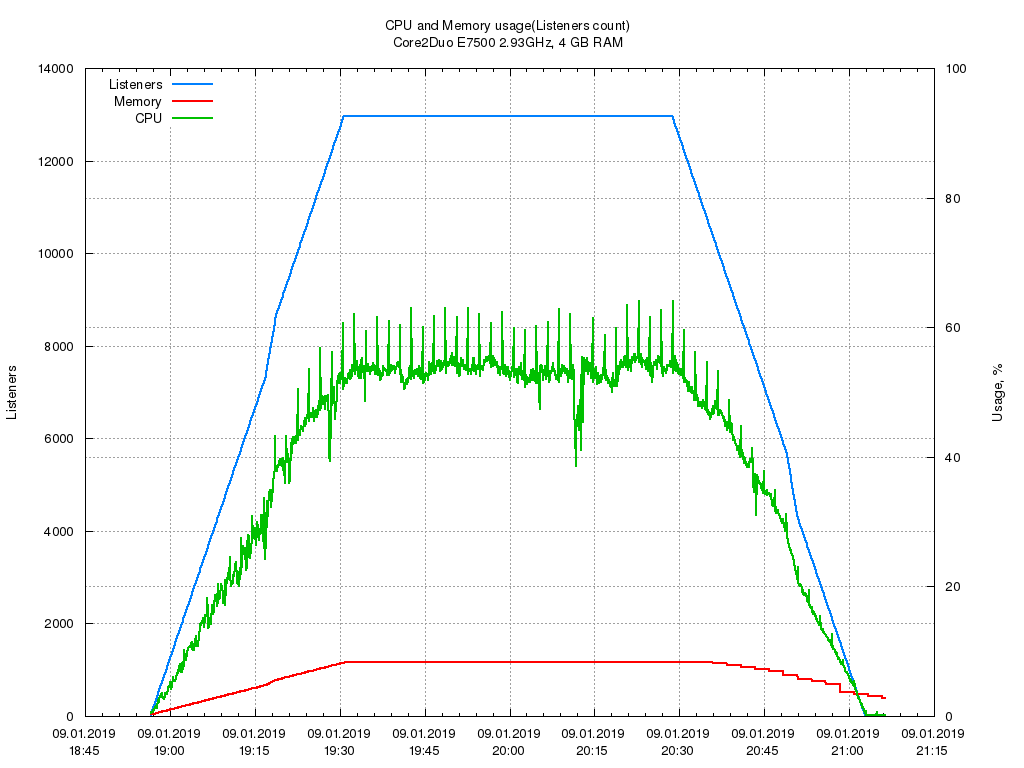
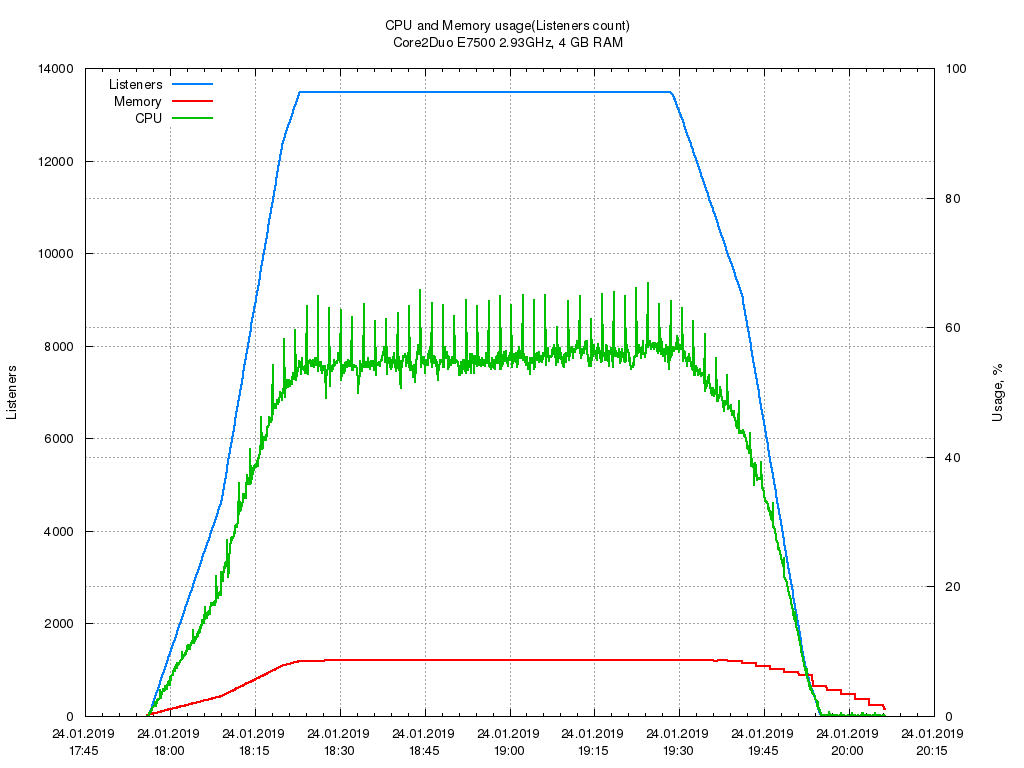
benchParallel

diff --git a/main_test.go b/main_test.go
@@ -109,7 +109,6 @@ func BenchmarkGeneral(b *testing.B) {
 
 	cl := &iceclient.PenguinClient{}
 	cl.Init(hostAddr, mountName, "")
-
 	b.ResetTimer()
 
 	for i := 0; i < b.N; i++ {
@@ -118,11 +117,37 @@ func BenchmarkGeneral(b *testing.B) {
 			log.Println(err)
 		}
 	}
+}
 
+func BenchmarkParallel(b *testing.B) {
+	log.Println("Start creating listeners...")
+
+	wg := &sync.WaitGroup{}
+
+	for i := 0; i < 500/incStep; i++ {
+		wg.Add(incStep)
+		for k := 0; k < incStep; k++ {
+			go func(wg *sync.WaitGroup, i int) {
+				defer wg.Done()
+				time.Sleep(time.Millisecond * 200)
+				cl := &iceclient.PenguinClient{}
+				cl.Init(hostAddr, mountName, "")
+				err := cl.Listen(120)
+				if err != nil {
+					log.Println(err)
+				}
+			}(wg, i)
+		}
+		time.Sleep(time.Second * waitStep)
+
+	}
+	log.Println("Waiting for listeners to finito...")
+	wg.Wait()
 }
 
 /*
-	go test -bench General -benchmem -benchtime 120s -cpuprofile=cpu.out -memprofile=mem.out main_test.go -run notests
+	go test -bench General  -benchmem -benchtime 120s -cpuprofile=cpu.out -memprofile=mem.out main_test.go -run notests
+	go test -bench Parallel -benchmem -cpuprofile=cpu.out -memprofile=mem.out main_test.go -run notests
 
 	go tool pprof --pdf  cpu.out > cpu.pdf
 	go tool pprof --pdf -alloc_space main.test mem.out > memSpace.pdf
@@ -132,7 +157,7 @@ func BenchmarkGeneral(b *testing.B) {
 	go tool pprof main.test cpu.out
 	go tool pprof main.test mem.out
 
-	go test -v -race MonitoringListenersCount -timeout 300m main_test.go
+	go test -v -run MonitoringListenersCount -timeout 300m main_test.go
 	go test -bench Slice -benchmem main_test.go -run notests
 
 	mp3check -e -a -S -T -E -v dump/*.mp3

diff --git a/src/fastStat/fastStat.go b/src/fastStat/fastStat.go
@@ -1,3 +1,5 @@
+// Package fastStat - read current process stat from /proc/[pid]/stat
+// used for CPU and memory usage monitoring
 package fastStat
 
 /* #include <unistd.h> */
@@ -79,7 +81,8 @@ func parseInt(val string) int {
 	return intVal
 }
 
-func (p *ProcStatsReader) Read() (*ProcStats, error) {
+// read - reads a /proc/[pid]/stat file and returns statistics
+func (p *ProcStatsReader) read() (*ProcStats, error) {
 	if p.procFile == nil {
 		return nil, errors.New("ProcStatsReader have to be initialized")
 	}
@@ -126,7 +129,7 @@ func (p *ProcStatsReader) GetCPUAndMem() (float64, int, error) {
 
 	if runtime.GOOS == "linux" {
 
-		stat, err := p.Read()
+		stat, err := p.read()
 		if err != nil {
 			return 0, 0, err
 		}

diff --git a/src/server/server.go b/src/server/server.go
@@ -1,7 +1,4 @@
 // Package iceserver - icecast streaming server
-// Copyright 2018 Setin Sergei
-// Licensed under the Apache License, Version 2.0 (the "License")
-
 package iceserver
 
 import (
@@ -22,7 +19,7 @@ import (
 
 const (
 	cServerName = "PenguinCast"
-	cVersion    = "0.1dev"
+	cVersion    = "0.10dev"
 )
 
 var (

diff --git a/src/client/client.go b/src/client/client.go
@@ -1,7 +1,4 @@
 // Package iceclient - simple client for icecast server
-// Copyright 2019 Setin Sergei
-// Licensed under the Apache License, Version 2.0 (the "License")
-
 package iceclient
 
 import (

diff --git a/src/server/buffer.go b/src/server/buffer.go
@@ -1,7 +1,4 @@
 // Package iceserver - icecast streaming server
-// Copyright 2018 Setin Sergei
-// Licensed under the Apache License, Version 2.0 (the "License")
-
 package iceserver
 
 import (

diff --git a/src/server/log.go b/src/server/log.go
@@ -1,7 +1,4 @@
 // Package iceserver - icecast streaming server
-// Copyright 2018 Setin Sergei
-// Licensed under the Apache License, Version 2.0 (the "License")
-
 package iceserver
 
 import (

diff --git a/src/server/monitor.go b/src/server/monitor.go
@@ -1,7 +1,4 @@
 // Package iceserver - icecast streaming server
-// Copyright 2018 Setin Sergei
-// Licensed under the Apache License, Version 2.0 (the "License")
-
 package iceserver
 
 import (

diff --git a/src/server/mount.go b/src/server/mount.go
@@ -1,7 +1,4 @@
 // Package iceserver - icecast streaming server
-// Copyright 2018 Setin Sergei
-// Licensed under the Apache License, Version 2.0 (the "License")
-
 package iceserver
 
 import (

diff --git a/src/server/props.go b/src/server/props.go
@@ -1,7 +1,4 @@
 // Package iceserver - icecast streaming server
-// Copyright 2018 Setin Sergei
-// Licensed under the Apache License, Version 2.0 (the "License")
-
 package iceserver
 
 import (

diff --git a/src/server/render.go b/src/server/render.go
@@ -1,7 +1,4 @@
 // Package iceserver - icecast streaming server
-// Copyright 2018 Setin Sergei
-// Licensed under the Apache License, Version 2.0 (the "License")
-
 package iceserver
 
 import (

diff --git a/src/server/protocol.go b/src/server/protocol.go
@@ -1,7 +1,4 @@
 // Package iceserver - icecast streaming server
-// Copyright 2018 Setin Sergei
-// Licensed under the Apache License, Version 2.0 (the "License")
-
 package iceserver
 
 /*
